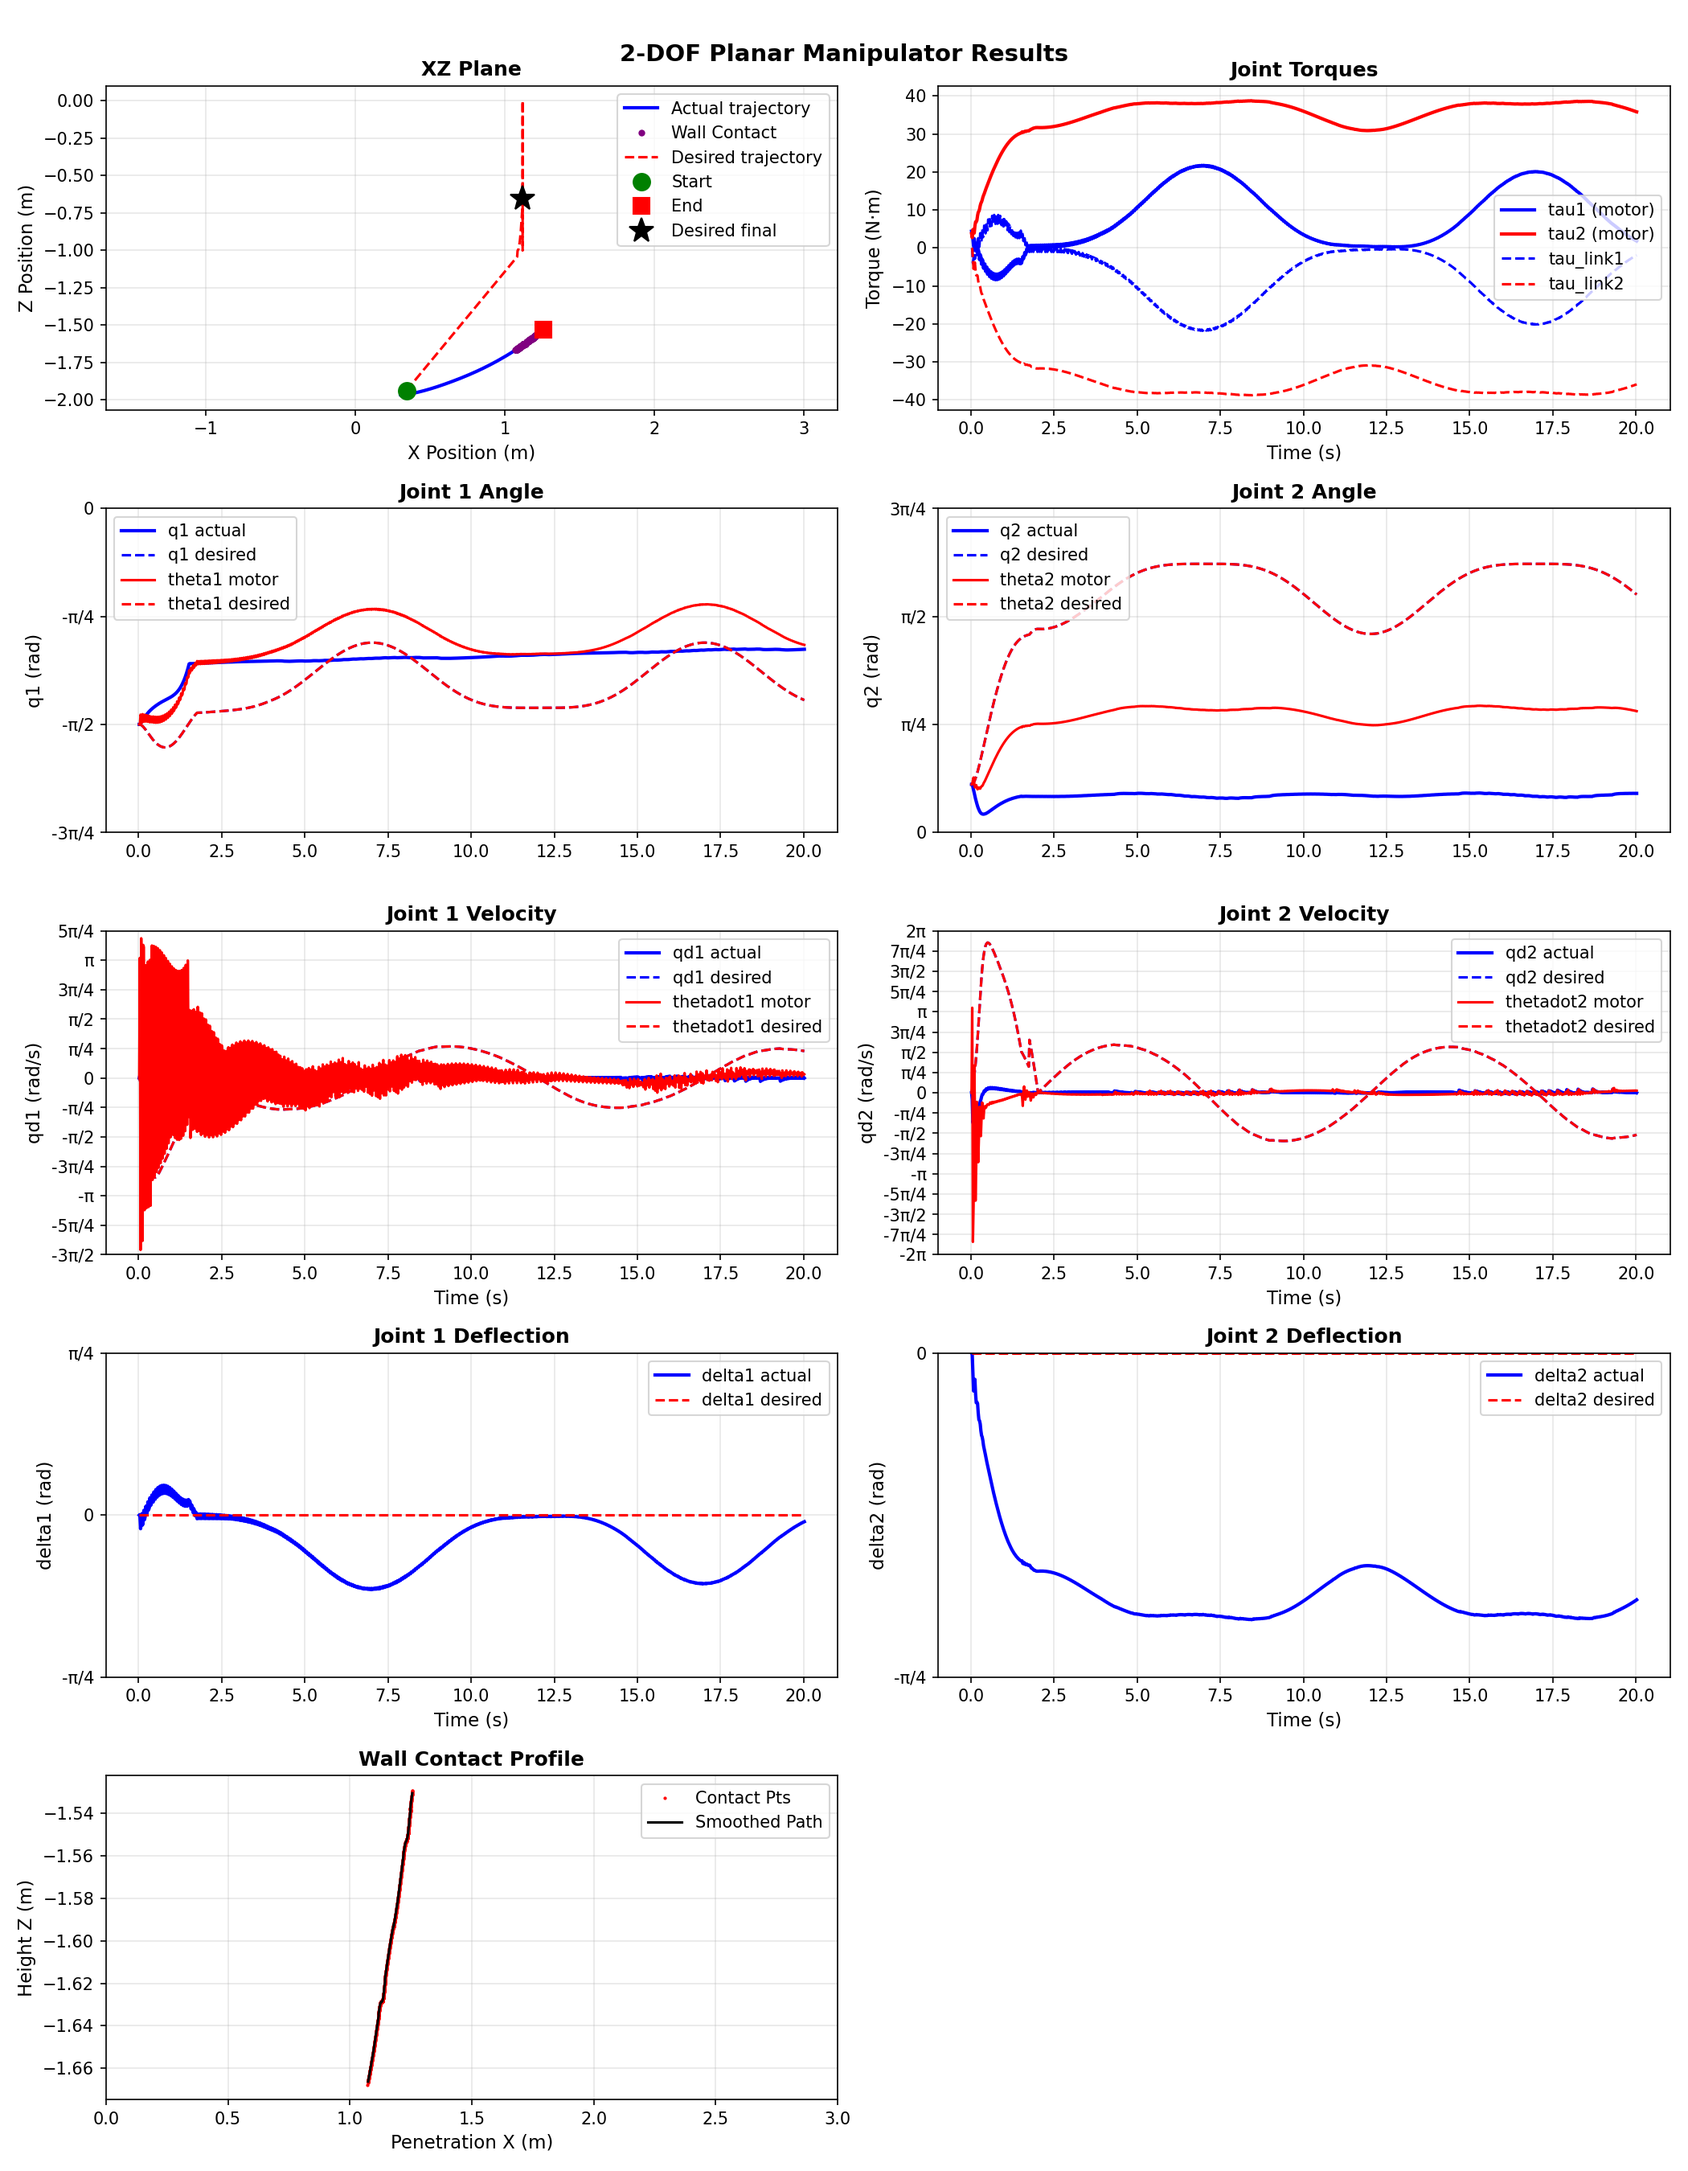
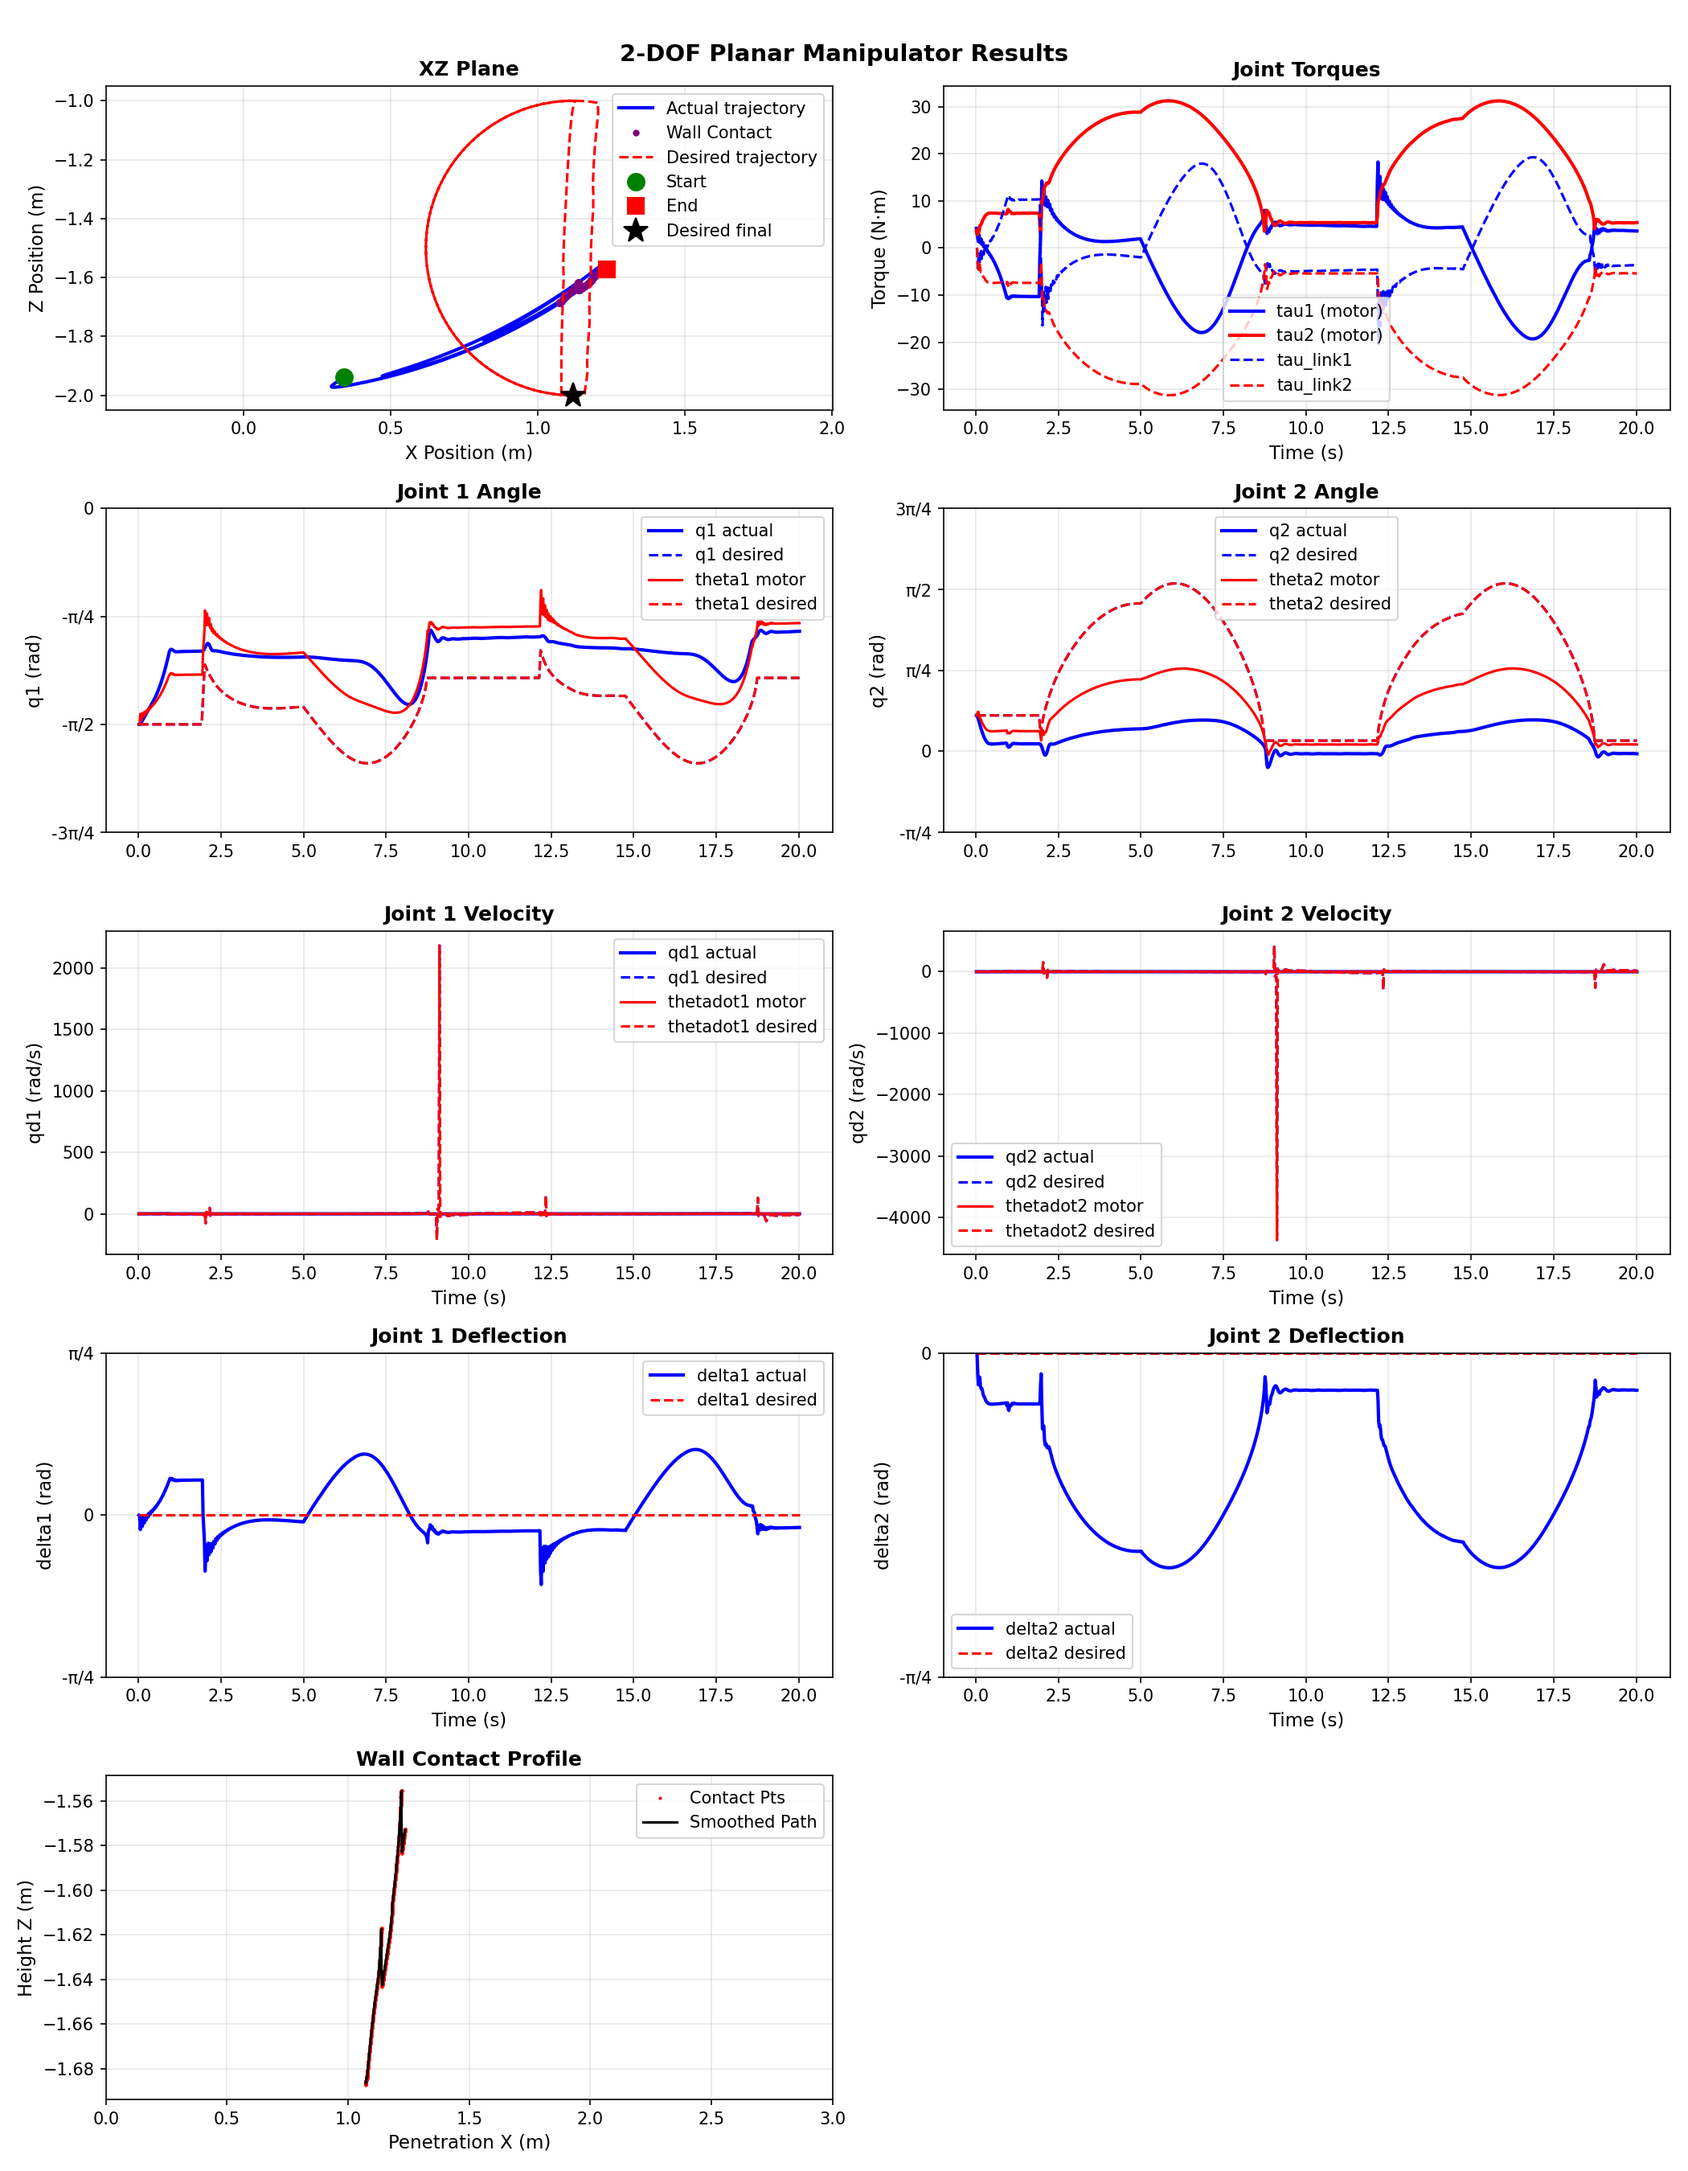
still not working

diff --git a/Coursework_student.py b/Coursework_student.py
@@ -76,50 +76,30 @@ def inverse_kinematics(x_target, z_target, elbow_up=False):
     q1 = alpha - beta
 
     return np.array([q1, q2])
- 
+
 def trajectory_planner(t: float):
-    # Wall is at x=1.1, so 1.12 gives a gentle, stable contact force
-    x_wall_contact = 1.12  
-    z_start = -1.0
-    
-    # Parameters for the Drawing Motion
-    freq = 0.1 # 10 seconds per full up-and-down cycle
+
+    x0 = 1.12  #
+    z0 = -1.5   
+
+    # 2. Parameters for the Motion
+    freq = 0.1 # 10 seconds per full cycle
     omega = 2.0 * math.pi * freq
-    amp_z = 0.5 
-    z0 = -0.5 # Z will oscillate between -1.0 and 0.0
-    
-    # Initial EE position (from forward kinematics at t=0)
-    q_init = np.array([phi1_init, phi2_init])
-    ee_init = forward_kinematics(q_init[0], q_init[1])
-    
-    t_transition = 2.0   # seconds to move from start to the wall
-    
-    if t < t_transition:
-        # Smooth transition using cubic interpolation (3s^2 - 2s^3)
-        s = t / t_transition
-        s_smooth = 3 * (s**2) - 2 * (s**3)
-        ds_dt = (6 * s - 6 * s**2) / t_transition
-        
-        x_des = ee_init[0] + s_smooth * (x_wall_contact - ee_init[0])
-        z_des = ee_init[1] + s_smooth * (z_start - ee_init[1])
-        
-        xd_des = ds_dt * (x_wall_contact - ee_init[0])
-        zd_des = ds_dt * (z_start - ee_init[1])
-        xdd_des = 0.0
-        zdd_des = 0.0
-    else:
-        # Draw a vertical line on the wall
-        t_line = t - t_transition
-        x_des = x_wall_contact
-        
-        # Sine wave oscillating around z0
-        z_des = z0 + amp_z * math.sin(omega * t_line - math.pi/2)
-        
-        xd_des = 0.0
-        zd_des = amp_z * omega * math.cos(omega * t_line - math.pi/2)
-        
-        xdd_des = 0.0
-        zdd_des = -amp_z * (omega**2) * math.sin(omega * t_line - math.pi/2)
+    amp_x = 0.5 # Oscillates between x=1.02 and x=1.22
+    amp_z = 0.5 # Oscillates between z=-0.5 and z=0.5
+
+    # 3. Position: Circular/Elliptical path
+    # Using 1.57 (pi/2) phase shift for z makes it a circle
+    x_des = x0 + amp_x * math.sin(omega * t)
+    z_des = z0 + amp_z * math.sin(omega * t - 1.57)
+
+    # 4. Velocity (First Derivative)
+    xd_des = amp_x * omega * math.cos(omega * t)
+    zd_des = amp_z * omega * math.cos(omega * t - 1.57)
+
+    # 5. Acceleration (Second Derivative)
+    xdd_des = -amp_x * (omega**2) * math.sin(omega * t)
+    zdd_des = -amp_z * (omega**2) * math.sin(omega * t - 1.57)
 
     return x_des, z_des, xd_des, zd_des, xdd_des, zdd_des
 
@@ -182,13 +162,13 @@ def controller(q, qd, theta, theta_dot, x_des, z_des, xd_des, zd_des, dt):
     # K_P must satisfy K_P < 4*J/dt^2:
     #   joint1: 4*0.00128/0.02^2 = 12.8  → use 6
     #   joint2: 4*0.00102/0.02^2 = 10.2  → use 2  (soft spring = lower limit)
-    k_p = np.diag([45.8, 30])
-    k_d = np.diag([0.3, 0.3])
+    k_p = np.diag([40, 25])
+    k_d = np.diag([0.2, 0.2])
 
     
     k_d = k_d @ theta_dot 
-    k_p = k_p @ (theta_des - theta)
-    tau = tauG + k_p  - k_d 
+    k_p = k_p @ (theta - theta_des)
+    tau = tauG - k_p  - k_d 
     tau = np.clip(tau, -TORQUE_LIMIT, TORQUE_LIMIT)
 
     print( "kp = {}, kd = {}".format(k_p, k_d), "tauG =",tauG, "tau =", tau)
